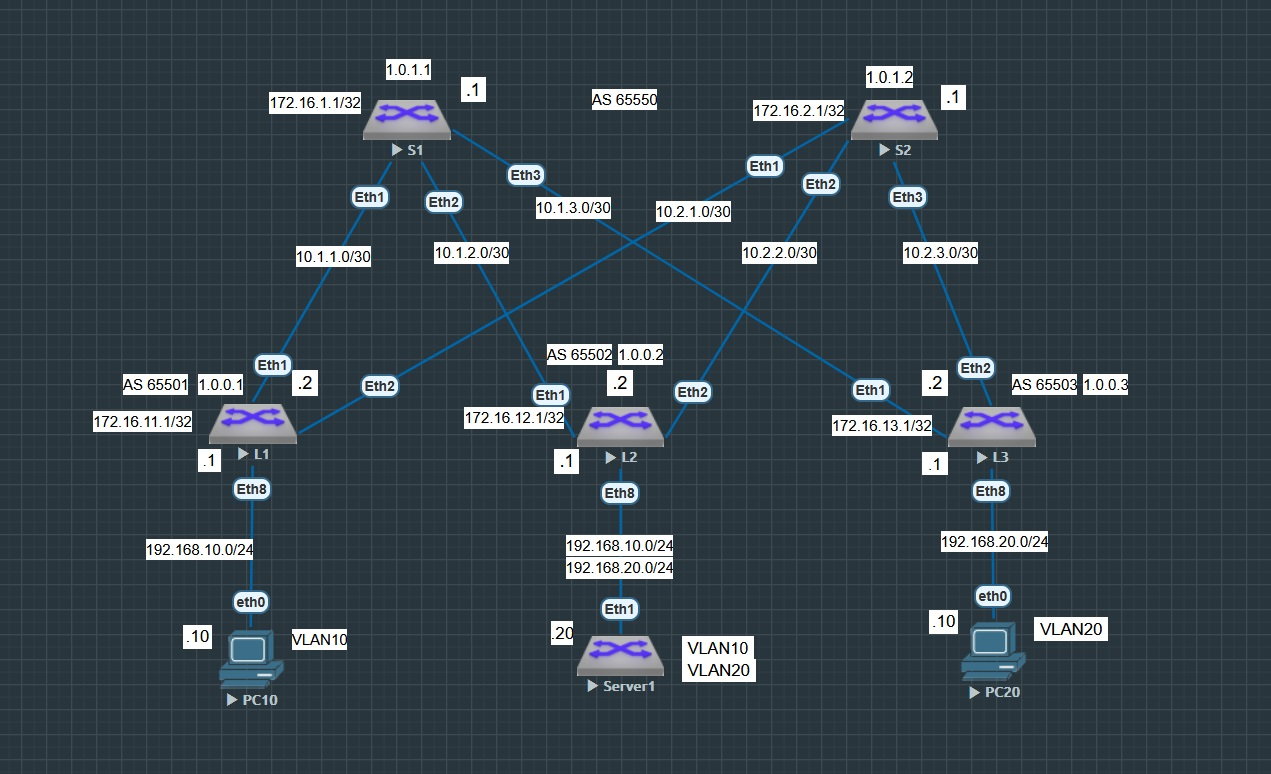
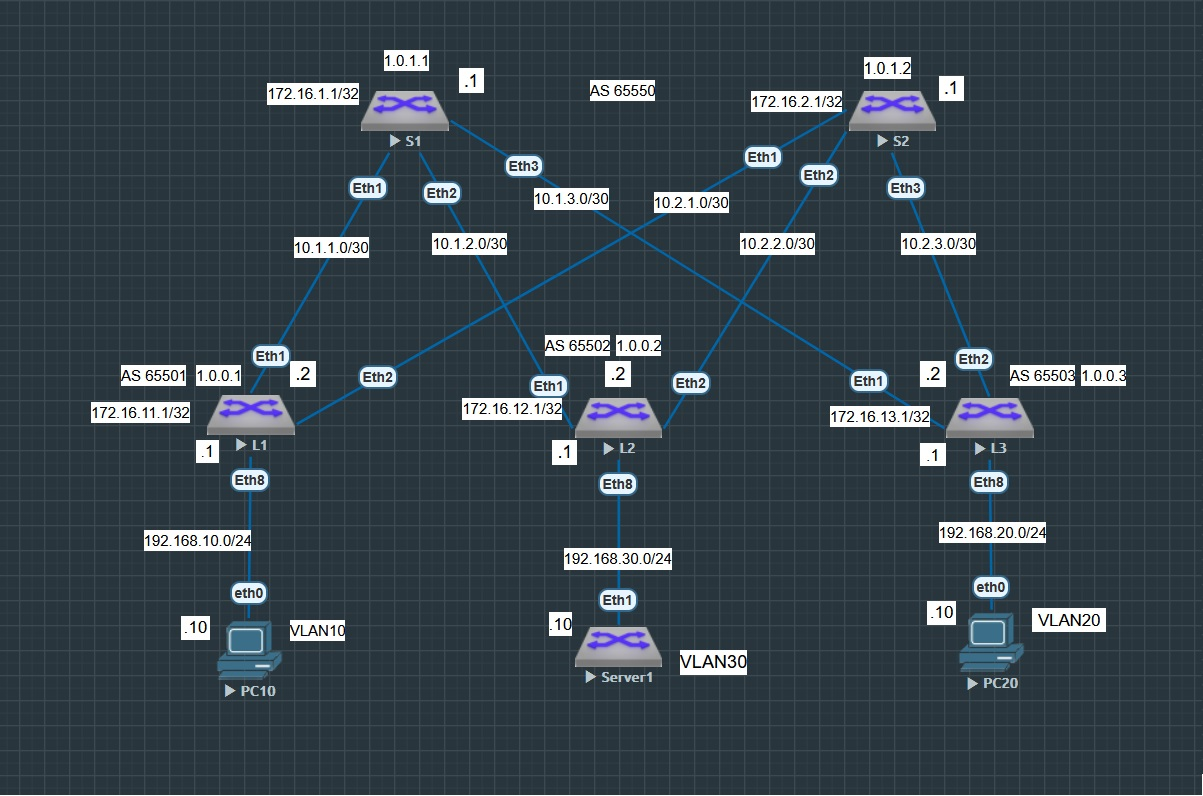
260126

diff --git a/README.md b/README.md
@@ -27,7 +27,8 @@
 - VTEP(Virtual Tunnel End Point) – устройство, на котором происходит инкапсуляция/декапсуляция кадров в/из VXLAN
 - VNI(VXLAN Network Identifier) - 24-битный идентификатор, используемый в VXLAN для различения различных виртуальных сегментов уровня 2.
 - NVE(Network Virtual Interface) - туннельный интерфейс, расположенный на VNI
-- IRB (Integrated Routing and Bridging) - 
+- IRB (Integrated Routing and Bridging) - cетевая технология, которая объединяет функции мостового соединения уровня 2 и маршрутизации уровня 3 в одном устройстве для соединения
+различных сетевых сегментов или VLAN. 
 
 ## Оборудование
 
@@ -47,9 +48,8 @@
 - L3 - Leaf коммутатор №3
 
 - PC10 - Виртуальный хост №1, подкчобенный к Leaf коммутатору №1. Принадледит VLAN10.
-- PC20 - Виртуальный хост №2, подкчобенный к Leaf коммутатору №2. Принадледит VLAN20.
-- PC11 - Виртуальный хост №3, подкчобенный к Leaf коммутатору №3. Принадледит VLAN10.
-- PC21 - Виртуальный хост №4, подкчобенный к Leaf коммутатору №4. Принадледит VLAN20.
+- PC20 - Виртуальный хост №2, подкчобенный к Leaf коммутатору №3. Принадледит VLAN20.
+- Server1 - Маршрутизатор имитирующий роль сервера, подключенный к Leaf коммутатору №2. Принадлежит VLAN30.
 
 ### Таблица адресов сетевых устройств Spine
 
@@ -89,8 +89,7 @@
 |:-:|:-:|:-:|:-:|:-:|
 |1|PC10|eth0|192.168.10.10|24|
 |2|PC20|eth0|192.168.20.10|24|
-|3|PC11|eth0|192.168.10.11|24|
-|4|PC21|eth0|192.168.20.11|24|
+|3|Server1|eth1|192.168.30.10|24|
 
 ### Таблица принадлежности конечных устройств соответствующим VLAN
 
@@ -98,8 +97,7 @@
 |:-:|:-:|:-:|
 |1|PC10|VLAN 10|
 |2|PC20|VLAN 20|
-|3|PC11|VLAN 10|
-|4|PC21|VLAN 20|
+|3|Server1|VLAN 30|
 
 ## Описание стенда
 
@@ -342,13 +340,8 @@ service routing protocols model multi-agent
 !
 hostname L2
 !
-vlan 10
-   name users1
-!
-vlan 20
-   name users2
-!
-vrf instance VRF1
+vlan 30
+   name servers
 !
 interface Ethernet1
    description <spine S1>
@@ -365,35 +358,22 @@ interface Ethernet2
 interface Ethernet8
    description <Server1>
    mtu 9214
-   switchport mode trunk
+   switchport access vlan 30
 !
 interface Loopback0
    ip address 172.16.12.1/32
 !
-interface Vlan10
-   description <User`s VLAN10>
-   vrf VRF1
-   ip address 192.168.10.253/24
-   ip virtual-router address 192.168.10.1
-!
-interface Vlan20
-   description <User`s VLAN20>
-   vrf VRF1
-   ip address 192.168.20.253/24
-   ip virtual-router address 192.168.20.1
+interface Vlan30
+   description <Server`s VLAN30>
+   ip address 192.168.30.10/24
 !
 interface Vxlan1
    vxlan source-interface Loopback0
    vxlan udp-port 4789
-   vxlan vlan 10 vni 10010
-   vxlan vlan 20 vni 10020
-   vxlan vrf VRF1 vni 111111
+   vxlan vlan 30 vni 10030
    vxlan learn-restrict any
 !
-ip virtual-router mac-address aa:11:00:00:00:00
-!
 ip routing
-ip routing vrf VRF1
 !
 router bgp 65502
    router-id 1.0.0.2
@@ -416,14 +396,9 @@ router bgp 65502
    neighbor 172.16.1.1 peer group EVPN
    neighbor 172.16.2.1 peer group EVPN
    !
-   vlan 10
+   vlan 30
       rd auto
-      route-target both 10:10010
-      redistribute learned
-   !
-   vlan 20
-      rd auto
-      route-target both 20:10020
+      route-target both 30:10030
       redistribute learned
    !
    address-family evpn
@@ -433,11 +408,6 @@ router bgp 65502
       neighbor SPINE activate
       network 172.16.12.1/32
    !
-   vrf VRF1
-      rd 65502:1
-      route-target import evpn 1:111111
-      route-target export evpn 1:111111
-      redistribute connected
 !
 end
 ```
@@ -546,92 +516,33 @@ end
 
 ## Описание типовых настроек
 
-В силу того, что на оборудовании Arista в качестве серды передачи трафика используется BGP нам необходимо включить поддержку multi agent, что позволит передавать стек меток с
-обновлениями маршрутов BGP, используя многопротокольный BGP (MPBGP). Так же нам необходимо разрешить передачу расширенных атрибутов (community extended), что позволит нам
-передавать сообщения размером 8 bytes, в то время как стандартное сообщение BGP составляет 4 bytes. Данные настройки аналогичны на Spine и Leaf устройствах. Так же уточним, что 
-Spine устройства будут заниматься передачей информации между Leaf устройствами, поэтому им не требуется производить каких либо иных действий, кроме как передачи информации. Для
-этого включим у них в секции описания BGP адресное пространство evpn.
+Все типовые настройки были перенесены из лабораторной работы №5, за исключением замены конечного клиентского устройства, подключенного к маршрутизатору L2, который был включен в 
+отдельный Bridge сегмент VLAN30. Данная операция была проведена с целью подготовки лабораторного сденда с последующим лабораторным работам, а так же с целью демонстрации отсутствия
+L3 связности между сегментами, не включенными в IRB.
 
-В отличие от Spine устройств, устройства Leaf, должны производить инкапсуляцию трафика, соспоставление VNI и VLAN ID, а так же проихводить сопоставление RT(Route Distinguisher) и 
-RT(Route Target). Для этого на каждом Leaf устройстве произведем активацию своего NVE интерфейса (int vxlan) и пропишем в нем соответствие VNI и VLAN ID. В нашем случае мы будем
-использовать единуы сетевой интерфейс и для BGP и для VXLAN, а именно Loopback0. Так же произведем настройку параметров передачи наших маршрутов в VRF для каждого их VLAN в 
-секции BGP.
+В качестве алгоритма IRB будем использовать Симметричную (Symmetric) маршрутизацию, позволяющую используя удиный L3VNI получить полноценную связность между раздичными L2 Bridge
+доменами. На маршрутизаторах L1 и L3, была проведена настройка IRB, включающая в себя настройку отдельной VRF таблицы (дадим ей имя VRF1) а так же отдельного l3vni (дадим ему 
+номер 111111), который будет един на всех тестовых Bridge доменах.
 
 # Заключение
 
 ## Проверка работы сденда и результаты работы
 
-Стенд может считаться рабочим в случае установления L2 связности в рамках сооответствующих VLAN между Leaf устройствами.
+Стенд может считаться рабочим в случае установления L3 связности в рамках двух Bridge доменов VLAN10 (Leaf маршрутизатор L1) и VLAN20 (Leaf маршрутизатор L3).
 
-В силу того, что информация на всех Spine устройствах не будет отличаться, для экономии визуального места приведем вывод только со Spine1
+Нет смысла повторять ранее приведенные в лабораторной работе №5 результаты установления eBGP сессий, в данной лабораторной работе они будут абсолютно идентичны. В качестве проверки
+оценим доступность конечных устройств PC10, PC20 и Server1, находяжихся в различных подсетях. В случае положительного результата мы должны получить отклик между устройствами PC10 и
+PC20, однако устройство Server1 не должно иметь доступ 
 
-**Суммарная информация по протоколу EVPN eBGP на коммутаторе S1 и S2**
+**Получение ECHO ICMP ответа от устройств PC10 и PC20, а так же устройства Server1**
 
-![S1](images/bgp_evpn_S1_S2.jpg)
+![S1](images/PC10toPC20.jpg)
 
-**Таблица маршрутизации протокола EVPN eBGP на коммутаторе S1 и S2**
+![S1](images/Server1toPC10PC20.jpg)
 
-![S1](images/bgp_evpn_rt_S1_S2.jpg)
-
-**Суммарная информация по протоколу EVPN eBGP на коммутаторе L1**
-
-![S1](images/bgp_evpn_L1.jpg)
-
-**Таблица маршрутизации протокола EVPN eBGP на коммутаторе L1**
-
-![S1](images/bgp_evpn_rt_L1.jpg)
-
-**Информация по интерфейсу VXLAN на коммутаторе L1**
-
-![S1](images/vxlan_inf_L1.jpg)
-
-**Информация по устройствам терминации VTEP на коммутаторе L1**
-
-![S1](images/vtep_L1.jpg)
-
-**Суммарная информация по протоколу EVPN eBGP на коммутаторе L2**
-
-![S1](images/bgp_evpn_L1.jpg)
-
-**Таблица маршрутизации протокола EVPN eBGP на коммутаторе L2**
-
-![S1](images/bgp_evpn_rt_L1.jpg)
-
-**Информация по интерфейсу VXLAN на коммутаторе L2**
-
-![S1](images/vxlan_inf_L1.jpg)
-
-**Информация по устройствам терминации VTEP на коммутаторе L2**
-
-![S1](images/vtep_L1.jpg)
-
-**Суммарная информация по протоколу EVPN eBGP на коммутаторе L3**
-
-![S1](images/bgp_evpn_L1.jpg)
-
-**Таблица маршрутизации протокола EVPN eBGP на коммутаторе L3**
-
-![S1](images/bgp_evpn_rt_L1.jpg)
-
-**Информация по интерфейсу VXLAN на коммутаторе L3**
-
-![S1](images/vxlan_inf_L1.jpg)
-
-**Информация по устройствам терминации VTEP на коммутаторе L3**
-
-![S1](images/vtep_L1.jpg)
-
-Теперь проверим доступность конечных устройств PC11 и PC21 с тестовых конечных устройств PC10 и PC20:
-
-**Получение ECHO ICMP ответа от устройств PC11 и PC21**
-
-![S1](images/PC10toPC11.jpg)
-
-![S1](images/PC20toPC21.jpg)
-
-Как видим каждое из конечных устройств получилро доступ к своему сетевому сегменту L2, а так же не имеет доступ к соседнему сетевому сегменту. 
+Как видим каждое из конечных устройств получилро доступ к своему сетевому сегменту L3, что подтверждает связность посредством L3VNI. 
 
 ## Вывод
 
-Была проведена работа по настройке протокола EVPN VXLAN поверх Underlay eBGP сети на рабочем стенде, собранного в соответствии с CLOS архитекрурой. Произведены испытания,
+Была проведена работа по настройке протокола IRB EVPN VXLAN поверх Underlay eBGP сети на рабочем стенде, собранного в соответствии с CLOS архитекрурой. Произведены испытания,
 показавшие наличие IP связности сетевых усторйств.
